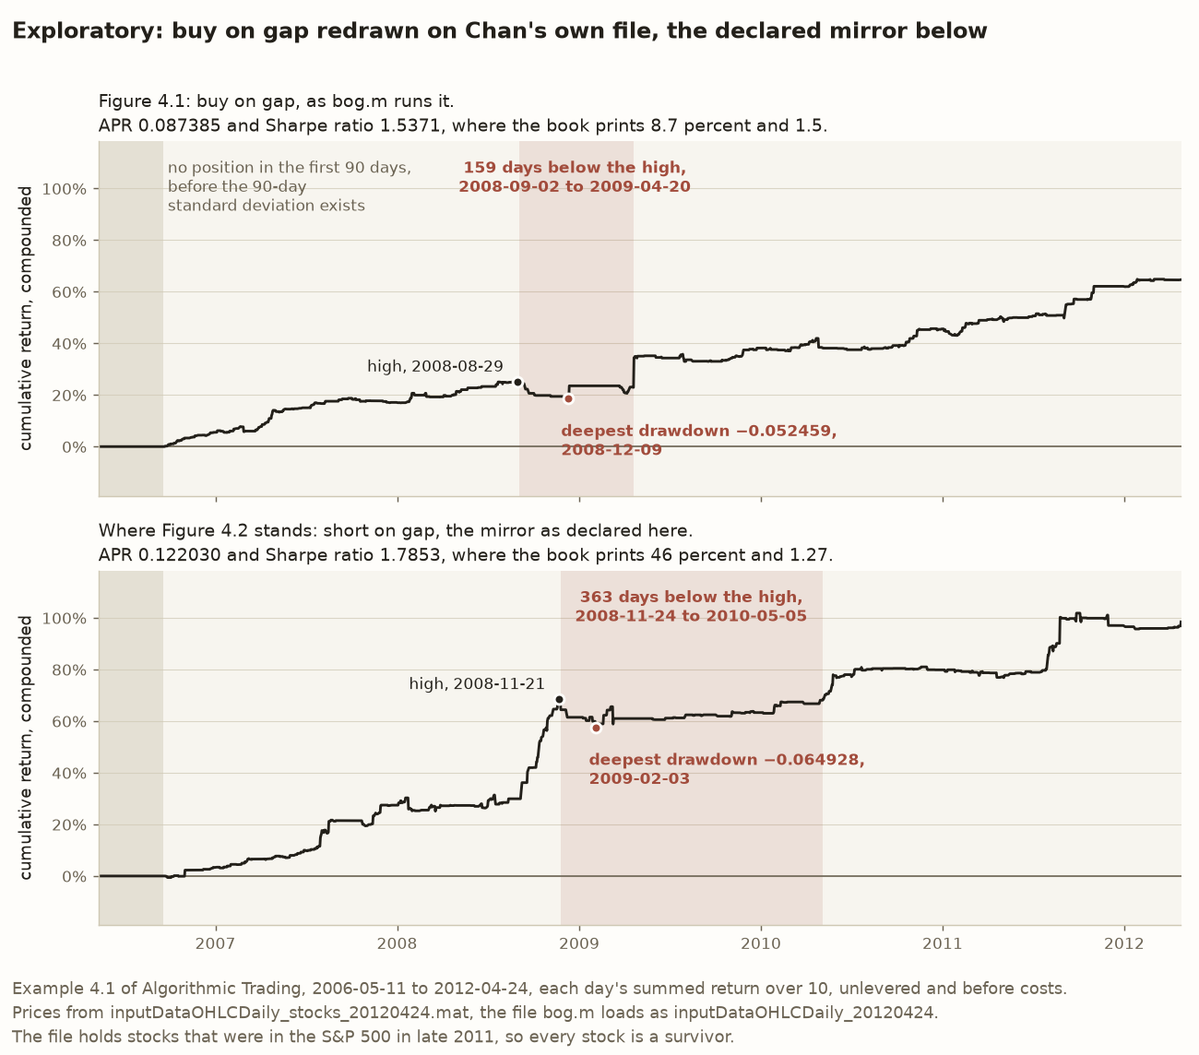
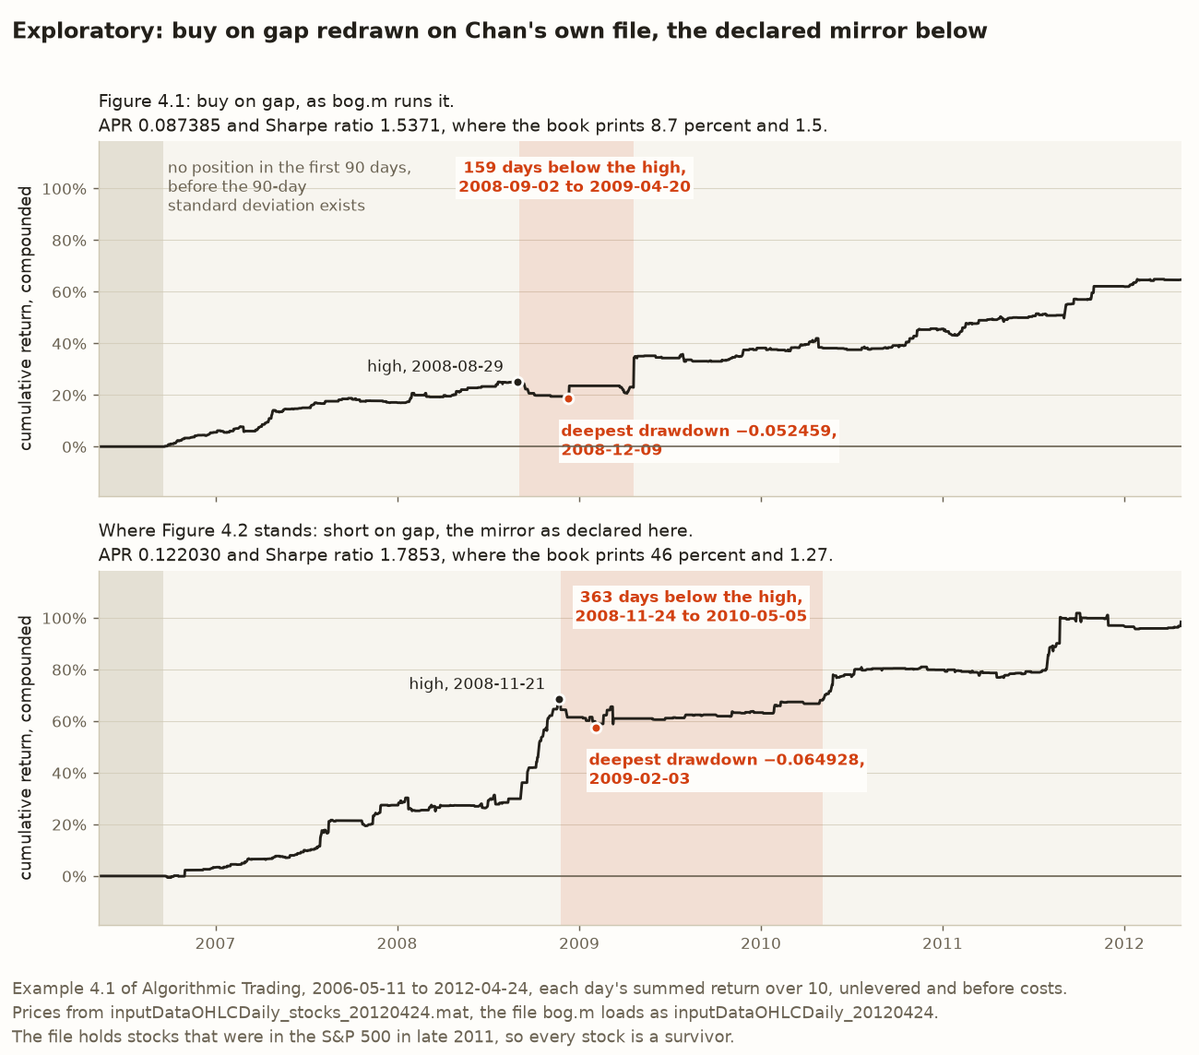
feat(palette): move the buy on gap post's figures to the colour-blind-safe palette (#748)
* feat(palette): move the buy on gap post's figures to the colour-blind-safe palette

The sketch and the cumulative-return chart now draw in chan.palette's berry,
blue and vermilion. The sketch passes chan.palette.INKS to render and gives its
dot the berry explicitly, since _dot defaults to the shared brass and would
otherwise quantize to grey. The chart's two vermilion labels sit on a box of
the figure's ground, because on the axes' ground the vermilion reaches only
4.30 to 1. The post's alt text and caption, the README passage on the sketch,
docstrings and tests name the new colours.

Part of #623

* test(palette): let the buy on gap command test's render stub take the inks

make_buy_on_gap_whiteboards now passes chan.palette.INKS to render, and the
stub took two arguments, so the test failed with a TypeError. The stub now
records the inks it is given and the test checks they are INKS.

Part of #623

* fix(palette): draw the buy on gap labels' boxes under the zero line

The box behind the top panel's drawdown label hid about 255 pixels of the zero
line, which ran through the label on main. The labels now draw at zorder 1.9,
under the lines, so the line runs unbroken and the text keeps its box. A test
holds each boxed label under the zero line.

Part of #623

---------

diff --git a/tests/test_buy_on_gap_whiteboard.py b/tests/test_buy_on_gap_whiteboard.py
@@ -3,7 +3,7 @@
 The GIF sketches the strategy's first two rules and sits right after the
 paragraph that opens "Chan gives a reason for rule 2". It draws PCS on
 2011-01-06 to scale: the previous low, the dashed line one standard deviation
-below it, and the 20-day average, with the open landing in the green band
+below it, and the 20-day average, with the open landing in the blue band
 between the last two and an arrow to the close. So what is pinned is what a
 reader takes from it: what it says and in which order, that every price stands
 at an affine function of its value, that the open sits inside the band and the
@@ -65,8 +65,9 @@ from chan.buy_on_gap_whiteboard import (
     read_gap_day,
     scenes,
 )
+from chan.palette import ACCENT, GOOD, INKS, LOST, TINT
 from chan.paths import FIGURES_DIR, REPO_ROOT
-from chan.regime_figure import ACCENT, GOOD, INK, LOST, MUTED
+from chan.regime_figure import INK, MUTED
 from chan.usdcad_tests_whiteboard import (
     HEIGHT,
     HOLD_MS,
@@ -223,13 +224,13 @@ class TestTheScene:
     def test_only_the_entry_line_is_dashed(self, drawn) -> None:
         assert [s.gid for s in drawn[0].strokes if s.dashed] == ["entry"]
 
-    def test_every_pale_tint_has_a_green_edge(self, drawn) -> None:
-        """The tint alone stands 1.29 to 1 against the white board, under WCAG
-        2.1's 3 to 1 for a graphical object, so the band gets a green edge that
+    def test_every_pale_tint_has_a_blue_edge(self, drawn) -> None:
+        """The tint alone stands 1.31 to 1 against the white board, under WCAG
+        2.1's 3 to 1 for a graphical object, so the band gets a blue edge that
         runs round it."""
         assert sketches.TINT_EDGE >= 1.0
         (fill,) = drawn[0].fills
-        assert fill.color == whiteboard.TINT
+        assert fill.color == TINT
         edge = _stroke(drawn[0], "band-edge")
         assert edge.color == GOOD and edge.width == sketches.TINT_EDGE
         assert (edge.x.min(), edge.x.max()) == pytest.approx((fill.x0, fill.x1))
@@ -239,8 +240,8 @@ class TestTheScene:
 class TestTheColours:
     def test_each_stroke_and_label_is_in_the_ink_its_meaning_calls_for(self, drawn) -> None:
         """The axis and the note are grey context, the three levels black, the
-        band where an open qualifies green, the zone that is not red, and the open and
-        its path to the close brown."""
+        band where an open qualifies blue, the zone that is not vermilion, and the open
+        and its path to the close berry."""
         scene = drawn[0]
         inks = {"axis": MUTED, "low": INK, "entry": INK, "average": INK}
         inks |= {"band-edge": GOOD, "open": ACCENT, "zone": LOST, "sell": ACCENT}
@@ -515,6 +516,14 @@ class TestTheGifs:
         for path in gifs:
             assert path.stat().st_size < 1_000_000, path.name
 
+    def test_each_draws_on_the_palette_of_the_colour_blind_safe_inks(self, gifs) -> None:
+        """Drawn on the shared inks' palette, the blue band and edge, the berry
+        dot and the vermilion zone would each land on the nearest colour that palette
+        holds rather than their own."""
+        for path in gifs:
+            with Image.open(path) as image:
+                assert image.getpalette() == whiteboard.palette(INKS).getpalette(), path.name
+
     def test_two_draws_give_the_same_bytes(self, gifs, tmp_path, day) -> None:
         again = make_buy_on_gap_whiteboards(out_dir=tmp_path, day=day)
         for first, second in zip(gifs, again, strict=True):
@@ -538,6 +547,13 @@ class TestTheCommittedGifs:
                     0,
                 )
             assert _durations(committed) == [f.ms for f in steps], name
+
+    def test_each_draws_on_the_palette_of_the_colour_blind_safe_inks(self) -> None:
+        """Unlike the byte comparison below, this runs on any machine, so a GIF
+        committed before the post moved to ``chan.palette`` fails on every one."""
+        for name in GIFS:
+            with Image.open(FIGURES_DIR / name) as image:
+                assert image.getpalette() == whiteboard.palette(INKS).getpalette(), name
 
     def test_each_is_a_fresh_draw_byte_for_byte(self, gifs) -> None:
         system, machine, font = platform.system(), platform.machine(), whiteboard.hand_font()
@@ -586,10 +602,10 @@ class TestThePost:
         assert -1 not in places, [w for w, at in zip(scene.labels, places, strict=True) if at < 0]
         assert places == sorted(places)
         assert "drawn to scale" in alt
-        assert "A pale green band with a green edge fills the space between" in alt
-        assert "A brown dot lands inside the band" in alt
-        assert "a brown arrow rises from the dot to the right" in alt
-        assert "A red hatched zone below the average" in alt
+        assert "A pale blue band with a blue edge fills the space between" in alt
+        assert "A berry dot lands inside the band" in alt
+        assert "a berry arrow rises from the dot to the right" in alt
+        assert "A vermilion hatched zone below the average" in alt
         assert "ends inside the band, just under the dashed line and well under" in alt
         assert alt.endswith("holds for four seconds before it redraws.")
 
@@ -610,12 +626,17 @@ class TestTheCommand:
         ]
 
     def test_drawing_with_no_out_dir_writes_the_committed_paths(self, monkeypatch, day) -> None:
-        saved = []
+        saved, inks = [], []
         monkeypatch.setattr(sketches, "read_gap_day", lambda: day)
-        monkeypatch.setattr(sketches, "render", lambda scene, frames: [Image.new("P", (1, 1))])
+        monkeypatch.setattr(
+            sketches,
+            "render",
+            lambda scene, frames, given: inks.append(given) or [Image.new("P", (1, 1))],
+        )
         monkeypatch.setattr(Image.Image, "save", lambda self, path, **kw: saved.append(path))
         paths = make_buy_on_gap_whiteboards()
         assert paths == saved == [FIGURES_DIR / name for name in GIFS]
+        assert inks == [INKS] * len(GIFS)
 
     def test_a_refusal_reaches_the_operator_as_one_line(self, monkeypatch) -> None:
         refusal = VintageUnavailable("the committed file's hash does not match its manifest")

diff --git a/tests/test_buy_on_gap_figures.py b/tests/test_buy_on_gap_figures.py
@@ -34,11 +34,13 @@ from matplotlib.dates import DateFormatter, YearLocator, date2num, num2date
 from chan import buy_on_gap
 from chan.buy_on_gap import SPREAD_LOOKBACK, both_sides
 from chan.buy_on_gap_figures import CUMULATIVE_FIGURE, main, make_cumulative_figure, panel_heading
+from chan.palette import LOST
 from chan.paths import FIGURES_DIR
 from chan.pead_figures import cumulative_return, longest_spell
-from chan.regime_figure import LOST, RULE
+from chan.regime_figure import GROUND, RULE, SURFACE
 from chan.vintage import VintageUnavailable
 from tests.test_buy_on_gap import SPEC
+from tests.test_palette import _contrast
 
 #: Each side's longest spell as the figure draws it: the high, the spell's
 #: first and last days, the trough, the depth, and the spell's length in days.
@@ -212,7 +214,7 @@ class TestTheSpells:
         assert bottom["trough-label"] == "deepest drawdown −0.064928,\n2009-02-03"
 
     def test_each_spell_and_its_label_are_drawn_in_lost(self, figure) -> None:
-        """The red band is what marks the days spent below the high."""
+        """The vermilion band is what marks the days spent below the high."""
         for ax in figure.axes:
             band = _by_gid(ax.patches)["spell"]
             label = {t.get_gid(): t for t in ax.texts}["spell-label"]
@@ -220,7 +222,7 @@ class TestTheSpells:
             assert same_color(label.get_color(), LOST)
 
     def test_the_trough_is_marked_in_lost_and_the_high_in_the_line_s_colour(self, figure) -> None:
-        """Swapped, the red mark would sit on the high and say the drawdown is there."""
+        """Swapped, the vermilion mark would sit on the high and say the drawdown is there."""
         for ax in figure.axes:
             lines = _by_gid(ax.lines)
             notes = {t.get_gid(): t for t in ax.texts}
@@ -229,6 +231,28 @@ class TestTheSpells:
             assert same_color(lines["high"].get_color(), lines["cumulative"].get_color())
             assert same_color(notes["high-label"].get_color(), lines["cumulative"].get_color())
             assert not same_color(lines["trough"].get_color(), lines["high"].get_color())
+
+    def test_each_vermilion_label_sits_on_the_figure_s_ground(self, figure) -> None:
+        """On the axes' own ground the vermilion reaches 4.30 to 1, short of
+        WCAG's 4.5 for text, so each label in it sits on a box of the lighter
+        figure ground, where it clears 4.5."""
+        assert _contrast(LOST, GROUND) < 4.5 <= _contrast(LOST, SURFACE)
+        for ax in figure.axes:
+            notes = {t.get_gid(): t for t in ax.texts}
+            for gid in ("spell-label", "trough-label"):
+                box = notes[gid].get_bbox_patch()
+                assert box is not None, gid
+                assert same_color(box.get_facecolor(), SURFACE), gid
+                assert box.get_alpha() in (None, 1.0), gid
+
+    def test_no_label_box_hides_the_zero_line(self, figure) -> None:
+        """The top panel's drawdown label sits across the zero line, so its box
+        draws under it rather than breaking it."""
+        for ax in figure.axes:
+            (zero,) = [line for line in ax.lines if list(line.get_ydata()) == [0, 0]]
+            notes = {t.get_gid(): t for t in ax.texts}
+            for gid in ("spell-label", "trough-label"):
+                assert notes[gid].get_zorder() < zero.get_zorder(), gid
 
     def test_each_label_points_at_the_row_it_names(self, panels) -> None:
         """The text alone would pass with the arrow anchored at the wrong day."""
@@ -254,7 +278,7 @@ class TestTheIdleStart:
             assert _day(side, SPREAD_LOOKBACK) == "2006-09-19", SPEC
 
     def test_each_band_is_grey_and_not_the_spell_s_colour(self, figure) -> None:
-        """An idle start shaded in the spell's red would read as a drawdown."""
+        """An idle start shaded in the spell's vermilion would read as a drawdown."""
         for ax in figure.axes:
             bands = _by_gid(ax.patches)
             idle = to_rgb(bands["unfilled"].get_facecolor())
@@ -269,7 +293,7 @@ class TestTheIdleStart:
         assert "unfilled-label" not in bottom
 
     def test_its_label_is_not_the_spell_s_colour(self, figure) -> None:
-        """Red text in the grey band would read as part of the spell."""
+        """Vermilion text in the grey band would read as part of the spell."""
         label = {t.get_gid(): t for t in figure.axes[0].texts}["unfilled-label"]
         assert not same_color(label.get_color(), LOST)
 

diff --git a/src/chan/buy_on_gap_whiteboard.py b/src/chan/buy_on_gap_whiteboard.py
@@ -11,14 +11,14 @@ post places right after the paragraph that opens "Chan gives a reason for rule
 
 1. Where the open has to land: a price axis with three levels across it, the
    previous day's low, a dashed line at that low times one less the standard
-   deviation, and the 20-day average lower still. A green band between the
-   dashed line and the average is where an open qualifies, and a brown dot
+   deviation, and the 20-day average lower still. A blue band between the
+   dashed line and the average is where an open qualifies, and a berry dot
    for the day's open lands in it. Rule 3 then buys the ten deepest drops
    among the day's qualifiers, so an open in the band is not always bought,
    which is why the band says it qualifies rather than that it is bought. A
-   red hatched zone below the average carries Chan's reason for the second
-   rule, and a brown arrow from the open to the close says the position is
-   sold at the close.
+   vermilion hatched zone below the average carries Chan's reason for the
+   second rule, and a berry arrow from the open to the close says the position
+   is sold at the close.
 
 The sketch is not schematic. It draws one real stock on one real day to
 scale, so every level stands at an affine function of its price. That day is
@@ -68,10 +68,10 @@ from chan.buy_on_gap import (
     trailing_average,
 )
 from chan.matlab_helpers import backshift
+from chan.palette import ACCENT, GOOD, INKS, LOST, TINT
 from chan.paths import FIGURES_DIR
-from chan.regime_figure import ACCENT, GOOD, LOST, MUTED
+from chan.regime_figure import MUTED
 from chan.usdcad_tests_whiteboard import (
-    TINT,
     Fill,
     Label,
     Scene,
@@ -106,7 +106,7 @@ LEFT_X = 2.2
 #: other price stands at the affine function of its value these two fix.
 AVERAGE_Y = 1.3
 LOW_Y = 3.5
-#: The bottom of the red zone below the average, which marks a region rather
+#: The bottom of the vermilion zone below the average, which marks a region rather
 #: than a price.
 ZONE_BOTTOM = 0.3
 #: How far the band and the zone stand inside the lines that bound them, so
@@ -117,7 +117,7 @@ OPEN_X = 3.1
 CLOSE_X = 4.7
 #: The least height between two labels to the right of the levels.
 LABEL_APART = 0.36
-#: The width of the green edge round the pale tint, as
+#: The width of the blue edge round the pale tint, as
 #: :mod:`chan.equity_seasonals_whiteboard` draws it.
 TINT_EDGE = 1.2
 
@@ -181,7 +181,7 @@ def gif_name(scene: Scene) -> str:
 
 
 def _tinted(gid: str, x0: float, y0: float, x1: float, y1: float) -> tuple[Fill, Stroke]:
-    """A pale tint and a thin green edge round it, so the region it marks
+    """A pale tint and a thin blue edge round it, so the region it marks
     reads at WCAG's 3 to 1 for graphical objects. The edge is ``gid`` plus
     ``-edge``."""
     return Fill(gid, x0, y0, x1, y1, TINT), _stroke(
@@ -267,7 +267,7 @@ def _where_the_open_lands(day: GapDay) -> Scene:
             names="band",
             color=GOOD,
         ),
-        _dot("open", OPEN_X, opened),
+        _dot("open", OPEN_X, opened, color=ACCENT),
         Label(f"open {day.open:.2f}", LEFT_X, opened, names="open", ha="right", color=ACCENT),
         _stroke("zone", _hatched(*zone), color=LOST, width=1.4, frames=10),
         Label("not bought", LEFT_X, reason, names="zone", ha="right", color=LOST),
@@ -317,7 +317,7 @@ def make_buy_on_gap_whiteboards(
     paths = []
     for scene in scenes(day):
         frames = timeline(scene)
-        first, *rest = render(scene, frames)
+        first, *rest = render(scene, frames, INKS)
         path = folder / gif_name(scene)
         first.save(
             path,

diff --git a/src/chan/buy_on_gap_figures.py b/src/chan/buy_on_gap_figures.py
@@ -59,12 +59,20 @@ from chan.buy_on_gap import (
     both_sides,
 )
 from chan.coin_flip_figures import _plain_text, _save, _style, _title
+from chan.palette import LOST
 from chan.paths import FIGURES_DIR
 from chan.pead_figures import _signed, cumulative_return, longest_spell
-from chan.regime_figure import INK, LOST, MUTED, RULE, SURFACE
+from chan.regime_figure import INK, MUTED, RULE, SURFACE
 from chan.vintage import VintageUnavailable
 
 CUMULATIVE_FIGURE = "buy_on_gap_cumulative_returns.png"
+#: The figure's ground behind each label drawn in ``LOST``. On the axes' own
+#: darker ground the vermilion reaches only 4.30 to 1, short of the 4.5 text
+#: needs, and on the figure's ground it clears it.
+LABEL_BOX = {"facecolor": SURFACE, "edgecolor": "none", "pad": 1.5}
+#: Those labels draw under the lines, whose zorder is 2, so the box hides no
+#: part of the zero line that runs under the top panel's drawdown label.
+LABEL_ZORDER = 1.9
 
 
 def panel_heading(side: Side, *, mirror: bool) -> str:
@@ -105,6 +113,8 @@ def _panel(ax, side: Side, *, mirror: bool) -> None:
         color=LOST,
         fontsize=9.5,
         fontweight="bold",
+        bbox=LABEL_BOX,
+        zorder=LABEL_ZORDER,
         gid="spell-label",
     )
     for gid, row, colour in (("high", spell.high, INK), ("trough", spell.trough, LOST)):
@@ -138,6 +148,8 @@ def _panel(ax, side: Side, *, mirror: bool) -> None:
         color=LOST,
         fontsize=9.5,
         fontweight="bold",
+        bbox=LABEL_BOX,
+        zorder=LABEL_ZORDER,
         gid="trough-label",
     )
     ax.set_title(

diff --git a/blog/buy-on-gap-lessons.md b/blog/buy-on-gap-lessons.md
@@ -34,7 +34,7 @@ The script adds a fifth rule about sizing. It sums each day’s returns across t
 
 Chan gives a reason for rule 2, which he calls “a momentum filter superimposed on a mean-reverting strategy”. A mean-reverting strategy bets that a price returns toward where it was, and a momentum filter keeps only stocks still trading above their recent average, here an open above the 20-day moving average. Chan argues that a stock that dropped “just a little” is more likely to recover than one that dropped “a lot”, because a large drop often carries bad news, and a drop caused by news is less likely to revert (Chan, 2013, location 1948).
 
-![An animated whiteboard sketch titled “Where the open has to land”, drawn stroke by stroke and drawn to scale from one day’s prices. A grey price axis rises on the left, labelled “price”, and grey words at the top right read “PCS on 2011-01-06, the only stock bought”. Three lines run right from the axis. A solid line at the top is labelled “yesterday’s low 13.68”. A dashed line below it is labelled “low × (1 − 0.020967) 13.39”, the previous low lowered by a fraction equal to one 90-day standard deviation of the stock’s daily returns. A solid line lower still is labelled “20-day average 12.70”. A pale green band with a green edge fills the space between the dashed line and the average, labelled “an open in this band qualifies”. A brown dot lands inside the band, labelled “open 13.01” on the left of the axis. A red hatched zone below the average is labelled “not bought” on the left, with “a large drop often carries bad news” and “and is less likely to revert” beside it on the right. Last, a brown arrow rises from the dot to the right and ends inside the band, just under the dashed line and well under yesterday’s low, labelled “sell at the close 13.30”. The finished sketch holds for four seconds before it redraws.](../docs/figures/buy_on_gap_where_the_open_lands.gif)
+![An animated whiteboard sketch titled “Where the open has to land”, drawn stroke by stroke and drawn to scale from one day’s prices. A grey price axis rises on the left, labelled “price”, and grey words at the top right read “PCS on 2011-01-06, the only stock bought”. Three lines run right from the axis. A solid line at the top is labelled “yesterday’s low 13.68”. A dashed line below it is labelled “low × (1 − 0.020967) 13.39”, the previous low lowered by a fraction equal to one 90-day standard deviation of the stock’s daily returns. A solid line lower still is labelled “20-day average 12.70”. A pale blue band with a blue edge fills the space between the dashed line and the average, labelled “an open in this band qualifies”. A berry dot lands inside the band, labelled “open 13.01” on the left of the axis. A vermilion hatched zone below the average is labelled “not bought” on the left, with “a large drop often carries bad news” and “and is less likely to revert” beside it on the right. Last, a berry arrow rises from the dot to the right and ends inside the band, just under the dashed line and well under yesterday’s low, labelled “sell at the close 13.30”. The finished sketch holds for four seconds before it redraws.](../docs/figures/buy_on_gap_where_the_open_lands.gif)
 
 *PCS on 2011-01-06, the only stock the reproduction bought that day, drawn to scale from Chan’s file. It opened more than one standard deviation of its daily returns, 0.020967, below the previous low and still above the 20-day average. So it qualified, and the reproduction bought it as the day’s only qualifier. It gained 2.2 percent by the close without getting back to that low.*
 
@@ -83,9 +83,9 @@ The rule is selective. Across the 1,500 days, the first two rules pass a stock 9
 
 The figure below redraws what `bog.m` draws last, the cumulative return Chan prints as Figure 4.1. The figure’s lower panel draws the mirror Lesson 4 turns to. No check here compares the redraw with the chart the book prints, so it is a redraw of the script’s plot rather than a checked copy.
 
-![Two line charts stacked on one shared scale, each showing a strategy’s compounded cumulative return over 1,500 trading days from May 2006 to April 2012, in percent of capital, unlevered and before costs. In both, a grey band covers the first 90 days, before the 90-day standard deviation exists, and the line is flat at zero there. The top panel labels the band as holding no position. The top panel, Figure 4.1, buy on gap, climbs steadily to a high marked on 2008-08-29, then sits below it inside a red band labelled 159 days below the high, from 2008-09-02 to 2009-04-20, with its deepest drawdown of −0.052459 marked on 2008-12-09, and then climbs on to the end. The bottom panel, the mirror as declared here, climbs more steeply through 2007 and 2008 to a high marked on 2008-11-21, then sits below it inside a much wider red band labelled 363 days below the high, from 2008-11-24 to 2010-05-05, with its deepest drawdown of −0.064928 marked on 2009-02-03, and ends above where the top panel ends. Each panel’s heading sets its APR and Sharpe ratio beside the book’s: 0.087385 and 1.5371 against 8.7 percent and 1.5 on top, and 0.122030 and 1.7853 against 46 percent and 1.27 below. The title calls the redraw exploratory, and the note names Chan’s file and says every stock in it is a survivor.](../docs/figures/buy_on_gap_cumulative_returns.png)
+![Two line charts stacked on one shared scale, each showing a strategy’s compounded cumulative return over 1,500 trading days from May 2006 to April 2012, in percent of capital, unlevered and before costs. In both, a grey band covers the first 90 days, before the 90-day standard deviation exists, and the line is flat at zero there. The top panel labels the band as holding no position. The top panel, Figure 4.1, buy on gap, climbs steadily to a high marked on 2008-08-29, then sits below it inside a vermilion band labelled 159 days below the high, from 2008-09-02 to 2009-04-20, with its deepest drawdown of −0.052459 marked on 2008-12-09, and then climbs on to the end. The bottom panel, the mirror as declared here, climbs more steeply through 2007 and 2008 to a high marked on 2008-11-21, then sits below it inside a much wider vermilion band labelled 363 days below the high, from 2008-11-24 to 2010-05-05, with its deepest drawdown of −0.064928 marked on 2009-02-03, and ends above where the top panel ends. Each panel’s heading sets its APR and Sharpe ratio beside the book’s: 0.087385 and 1.5371 against 8.7 percent and 1.5 on top, and 0.122030 and 1.7853 against 46 percent and 1.27 below. The title calls the redraw exploratory, and the note names Chan’s file and says every stock in it is a survivor.](../docs/figures/buy_on_gap_cumulative_returns.png)
 
-*The upper panel redraws `bog.m`’s cumulative return on Chan’s file. The lower panel, on the same scale, draws the declared mirror, the rule this repository wrote down before any run. The grey bands are the days before the 90-day standard deviation exists, and the red bands are each side’s longest drawdown, its longest run of days below an earlier high.*
+*The upper panel redraws `bog.m`’s cumulative return on Chan’s file. The lower panel, on the same scale, draws the declared mirror, the rule this repository wrote down before any run. The grey bands are the days before the 90-day standard deviation exists, and the vermilion bands are each side’s longest drawdown, its longest run of days below an earlier high.*
 
 ## Lesson 2: the helper behind the 90-day standard deviation decides both printed figures
 

diff --git a/README.md b/README.md
@@ -3818,9 +3818,9 @@ The post also carries one looping whiteboard sketch,
 [src/chan/buy_on_gap_whiteboard.py](src/chan/buy_on_gap_whiteboard.py) on the
 USD.CAD post's sketch machinery. It sits after the paragraph on Chan's reason
 for rule 2, and draws to scale the two levels an open has to land between, on
-PCS on 2011-01-06. The open of 13.01 lands in a green band under the dashed
+PCS on 2011-01-06. The open of 13.01 lands in a blue band under the dashed
 line at 13.39, one standard deviation below the previous low of 13.68, and
-above the 20-day average of 12.70, with a red zone below the average for
+above the 20-day average of 12.70, with a vermilion zone below the average for
 Chan's reason and an arrow to the close of 13.30. It reads every price from
 the committed file through `chan.buy_on_gap`'s own functions, so the dashed
 line is the price the run compares the open against.
